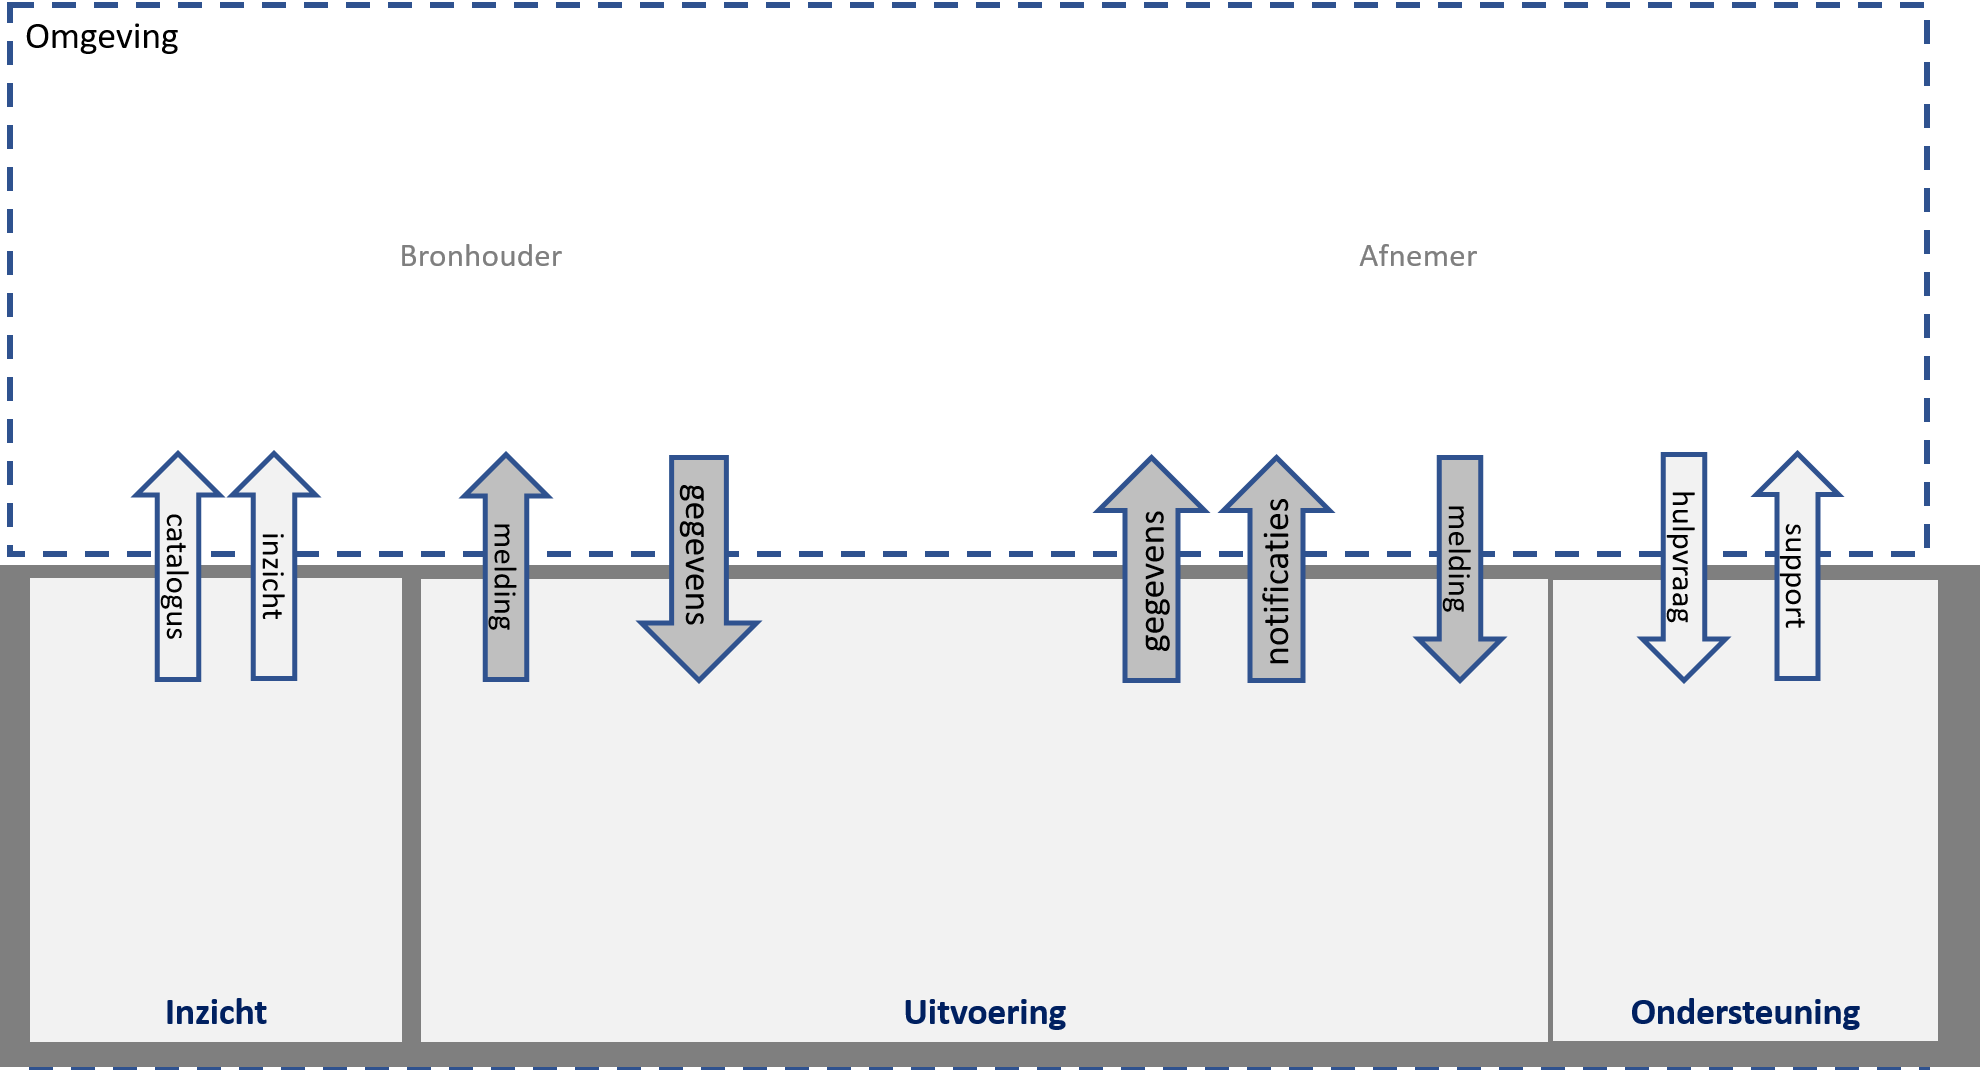
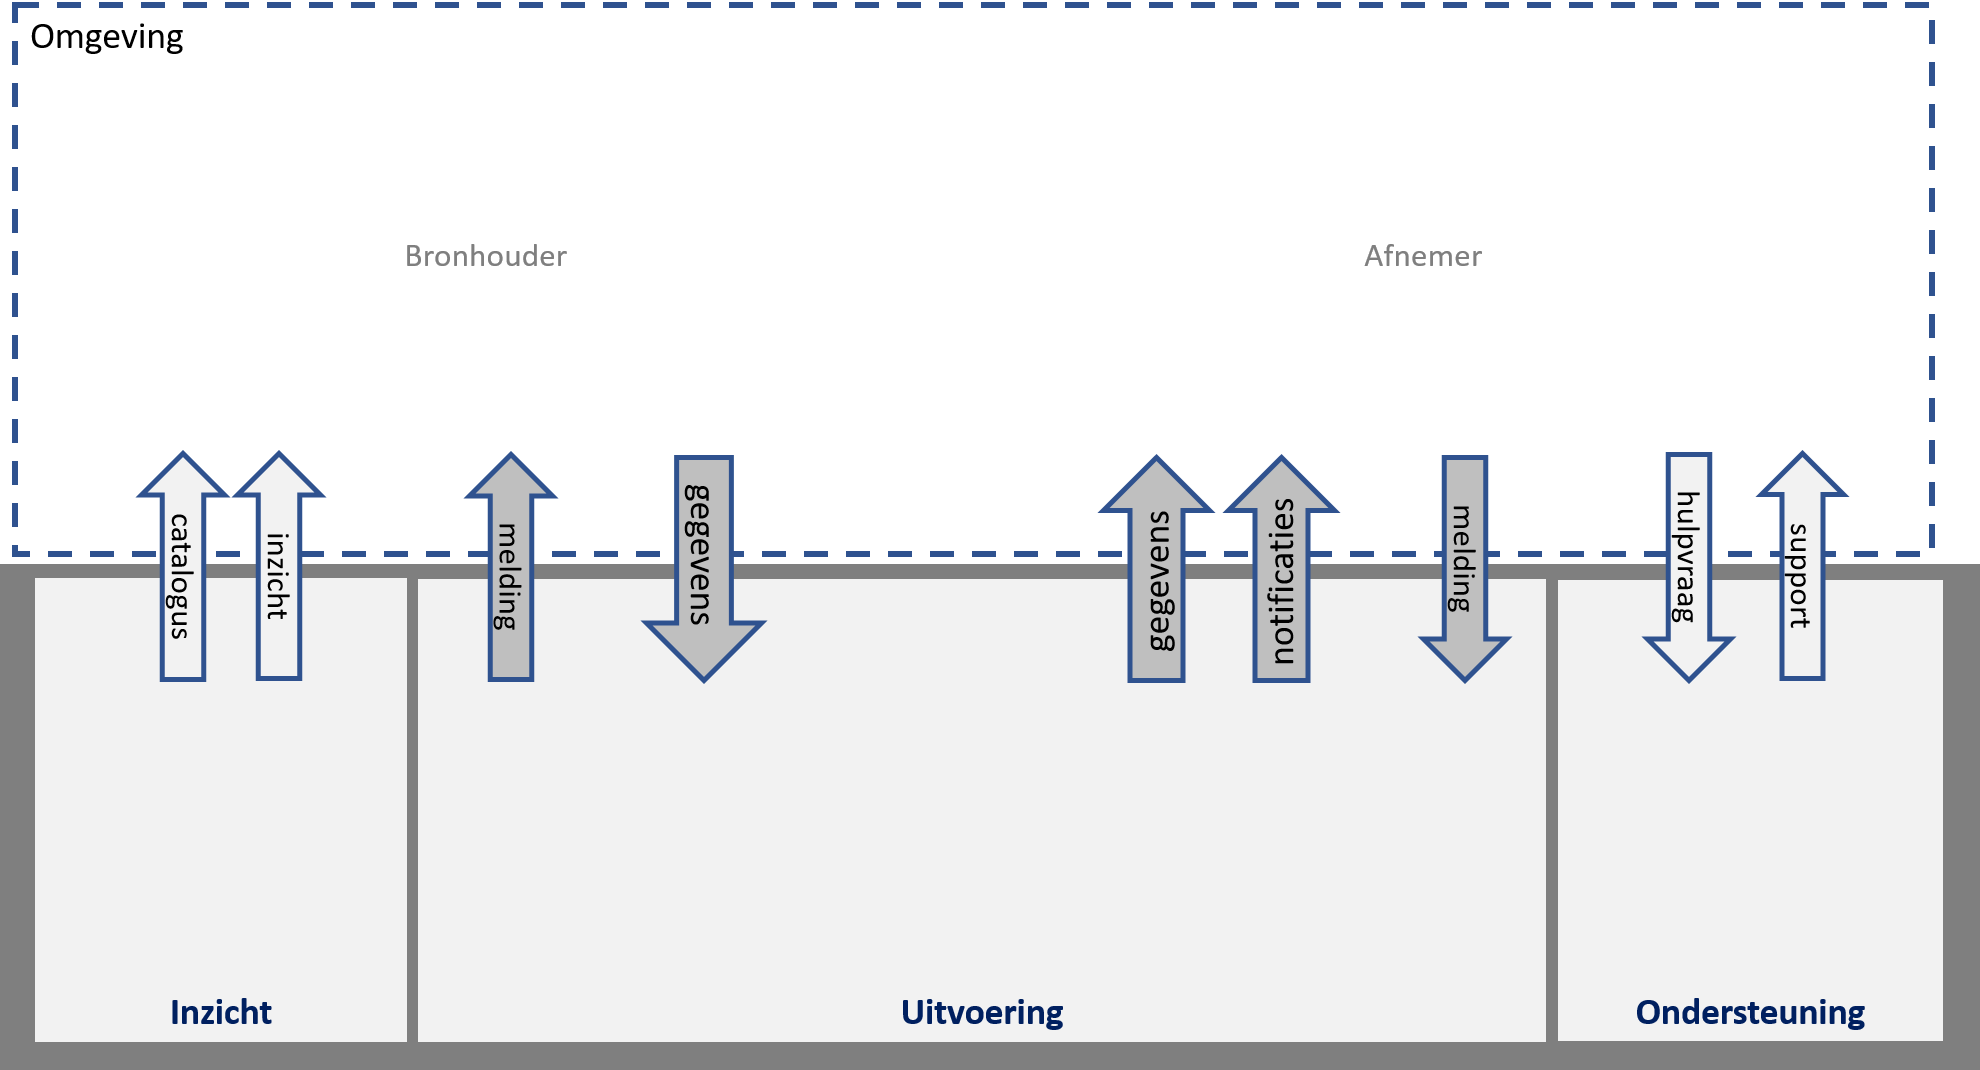
verwerking review

diff --git a/Bijlagen.md b/Bijlagen.md
@@ -63,10 +63,11 @@ Bron: https://www.noraonline.nl/images/noraonline/c/c0/Stelselarchitectuur_heden
 |-----------------------------|---------------------------------------|------------------------------------------------------------------------------------|------------------------|
 | Afgeleide gegevens          | 		                              | gegevens ontstaan uit filteren, selecteren en combineren van gegevens	          |                        |
 | Afgeleide gegevens service  | Convenience of process API            | Een technische dienst waarmee operaties op afgeleide gegevens mogelijk zijn, zoals lezen, toevoegen of aanpassen | |
-| Afgeleide Opslag            |                                       | Afgeleide opslag | |
+| Afgeleide Opslag            |                                       | Een replicatie van een deel van de opslag
+ | |
 | API 		               |                                       | Application Programming Interface, de technische invulling van een service         | [API Strategie](https://docs.geostandaarden.nl/api/API-Strategie/#wat-is-een-api) | 
 | Attributen	               |  Gegevens		                    | | | 
-| Audit-trail 	               |                                       | Vastgelegde gegevens waaruit is vast te stellen wie wanneer een bewerking van een gegeven heeft doorgevoer | |	
+| Audit-trail 	               |                                       | Vastgelegde gegevens waaruit is vast te stellen wie wanneer een bewerking van een gegeven heeft doorgevoerd | |	
 | Authenticatie                | 		                              | Ben je wie je zegt dat je bent                                                     | [NORA](https://www.noraonline.nl/wiki/Authenticatie(middelen)beheer) | 
 | Autorisatie                 | 		                              | Wat mag je                                                                         | [NORA](https://www.noraonline.nl/wiki/Bevoegdhedenbeheer) | 
 | Begrip                      |                                       |  door mensen begrepen woord of term in vocabulaire dat in meerdere informatiemodellen gebruikt kan worden, zie MIM | [MIM](https://docs.geostandaarden.nl/mim/def-st-mim-20201023/#metagegeven-begrip) | 
@@ -79,17 +80,14 @@ Bron: https://www.noraonline.nl/images/noraonline/c/c0/Stelselarchitectuur_heden
 | Dienst                      |                                       | Levering van prestaties door dienstverlener aan afnemer op basis van vraag en behoefte | | 
 | Fysiek model                |  Informatiemodel level-4	          | | |
 | Gegevens	               | Data                                  | Vastgelegde eigenschappen van een object | | 
-| Gegevens service            | 		                              | Een service die gegevens levert | | 
+| Gegevens service            | Data service 		                              |  | | 
 | Gemaksservice               | Convenience API                       | API die een generieke gebruikersvraag beantwoordt | |
-| Gesynchroniseerde Dataset	| 	                                   | Tweerichtingsverkeer aanpassing van bron + kopie gegevens	| | 
+| Geo gegevens               | Geografische gegevens                       | Gegevens met locatie en geometrie | |
 | Identificatie	          | 	                                   | Wie ben je                                                                         | [API Strategie](https://docs.geostandaarden.nl/api/API-Strategie-ext/#identification) | 
-| Informatie	               | 	                                   | Bewerkte gegevens, waarbij bewerken o.a. (dus niet uitputtende lijst) kan zijn: berekenen, aggregeren, combineren, filteren, presenteren.| | 	
-| Informatie service          | 		                              | Een service die informatie levert| | 
 | Informatiemodel level-1	| Begrippenlijst		               |  zie MIM | [MIM](https://docs.geostandaarden.nl/mim/def-st-mim-20201023/#niveau-1-model-van-begrippen) | 
 | Informatiemodel level-2	| Conceptueel Informatiemodel           | zie MIM | [MIM](https://docs.geostandaarden.nl/mim/def-st-mim-20201023/#niveau-2-conceptueel-informatiemodel )| 
 | Informatiemodel level-3	| Logisch- of Gegevensmodel 	          |  zie MIM | [MIM](https://docs.geostandaarden.nl/mim/def-st-mim-20201023/#niveau-3-logisch-informatie-of-gegevensmodel) | 
 | Informatiemodel level-4     | Fysiek -of Technisch gegevensmodel    |  zie MIM | [MIM](https://docs.geostandaarden.nl/mim/def-st-mim-20201023/#niveau-4-fysiek-of-technisch-gegevens-of-datamodel) | 
-| Inwinnen     	          | 	                                   | Het in de werkelijke fysieke wereld inwinnen van gegevens van een fysiek object	| | 
 | Logging	                    | 	                                   | Het bijhouden van metadata over de wijziging, wanneer en door welke organisatie/bronhouder	| | 
 | Logisch gegevensmodel       |  Informatiemodel level-3	          | | |
 | Logisch Informatiemodel     |  Informatiemodel level-3	          | | |
@@ -98,7 +96,6 @@ Bron: https://www.noraonline.nl/images/noraonline/c/c0/Stelselarchitectuur_heden
 | Objecten in de objectenregistratie | 	                              | Objecten die in het terrein zichtbaar zijn, zoals gebouwen, wegen, water, spoorlijnen en bomen, terreindelen, aangevuld met enkele (registratieve) objecten als woonplaatsen, gemeentegrenzen en openbare ruimten | | 
 | Objectgegevens              |                                       | Vastgelegde eigenschappen van een object | | 
 | Processervice               | process API, orchestration API        | API die meerdere system API's ofwel dataservices aanroept | |
-| Registreren                 |                                       | Het toevoegen en/of aanpassen van gegevens | | 
 | Replicatie                  |                                       | Een kopie van gegevens (maken) die gelijk is aan het origineel | | 
 | Service 		          |                                       | Technische functie die leveringen van diensten mogelijk maakt	| | 
 | Technisch gegevens model	| Informatiemodel level-4	          | | |

diff --git a/Uitwerking.md b/Uitwerking.md
@@ -19,16 +19,16 @@ Onder [Algemeen](#algemeen) beschrijven we de onderwerpen die op meerdere plaats
 in de architectuur voorkomen. Deze onderwerpen zijn daar eenmalig
 uitgewerkt.
 
-### Laag Uitvoering
+### Cluster Uitvoering
 
-Onderstaande afbeelding toont de clusters van functionaliteiten op de laag Uitvoering. Deze clustering is een functionele indeling, geen technische. Het groepeert functies die bijdragen aan hetzelfde doel.
+Onderstaande afbeelding toont de groepen van functionaliteiten op het cluster Uitvoering. Deze groepering is een functionele, geen technische. Hij groepeert functies die bijdragen aan hetzelfde doel.
 
 <figure id="functiesuitvoering">
     <img src="media/inrichting-uitvoering-objectenregistratie.png" alt="inrichting uitvoering">
-    <figcaption>De capabilities op de laag Uitvoering</figcaption>
+    <figcaption>De functies binnen het cluster Uitvoering</figcaption>
 </figure>
 
-De laag **Uitvoering** bevat de functies voor het beheren van objectgegevens en voor het afnemen van objectgegevens
+Het cluster **Uitvoering** bevat de functies voor het beheren van objectgegevens en voor het afnemen van objectgegevens
 Algemene onderwerpen zoals Toegang en Interactie zijn uitgewerkt in het onderdeel Algemeen.
 
 #### Registratie
@@ -436,6 +436,8 @@ Voor de uitwerking van de component gelden de volgende uitgangspunten:
 
 -   Het in onderzoek zijn is een gegeven waarop notificatie mogelijk is.
 
+Terugmelding kent mogelijk een functie voor meegeven van tekst en bijlagen, waarin ook verbetersuggesties mogelijk zouden zijn. Dit wordt in deze architectuur niet nader bepaald.
+
 **Vereisten**
 
 Voor deze component gelden de volgende vereisten:
@@ -457,16 +459,16 @@ Deze component heeft de volgende externe afhankelijkheden:
     terugmeldvoorzieningen zoals Digimelding en ‘Verbeter de kaart’ en de
     bijbehorende standaarden.
 
-### Laag Inzicht
+### Cluster Inzicht
 
-Onderstaande afbeelding toont de clusters van functionaliteiten op de laag Inzicht. Deze clustering is een functionele indeling, geen technische. Het groepeert functies die bijdragen aan hetzelfde doel.
+Onderstaande afbeelding toont de groepen functionaliteiten op het cluster Inzicht. Deze groepering is een functionele, geen technische. Hij groepeert functies die bijdragen aan hetzelfde doel.
 
 <figure id="inrichting-inzicht">
     <img src="media/inrichting-inzicht-objectenregistratie.png" alt="inrichting inzicht">
-    <figcaption>De capabilities op de laag Inzicht </figcaption>
+    <figcaption>De functies binnen het cluster Inzicht </figcaption>
 </figure>
   
-Op de laag **Inzicht** onderkennen we de volgende clusters: **Toegang**, **Gegevenscatalogus**, **Gegevenskwaliteit** en **Dienstencatalogus**. 
+Binnen het cluster **Inzicht** onderkennen we de volgende groepen functionaliteiten: **Toegang**, **Gegevenscatalogus**, **Gegevenskwaliteit** en **Dienstencatalogus**. 
 
 Algemene onderwerpen zoals Toegang en Interactie zijn uitgewerkt in het onderdeel Algemeen.
 
@@ -707,16 +709,16 @@ Deze component heeft de volgende externe afhankelijkheden:
     overheid.nl domein voor dienstaanbieders
 
 
-### Laag Ondersteuning
+### Cluster Ondersteuning
 
-Onderstaande afbeelding toont de clusters van functionaliteiten op de laag Ondersteuning. Deze clustering is een functionele indeling, geen technische. Het groepeert functies die bijdragen aan hetzelfde doel.
+Onderstaande afbeelding toont de groepen van functionaliteiten op het cluster Ondersteuning. Deze groepering is een functionele, geen technische. Hij groepeert functies die bijdragen aan hetzelfde doel.
 
 <figure id="functiesuitvoeringondersteuning">
     <img src="media/inrichting-ondersteuning-objectenregistratie.png" alt="inrichting ondersteuning">
-    <figcaption>De capabilities op de laag Ondersteuning</figcaption>
+    <figcaption>De functies binnen het cluster Ondersteuning</figcaption>
 </figure>
 
-Op de **Ondersteuningslaag** onderkennen we de clusters voor de ondersteuning van bronhouders en hun gemachtigden en afnemers.
+Binnen het cluster **Ondersteuning** onderkennen we de functies voor de ondersteuning van bronhouders en hun gemachtigden en afnemers.
 Algemene onderwerpen zoals Toegang en Interactie zijn uitgewerkt in het onderdeel Algemeen.
 
 #### Abonnementen
@@ -792,6 +794,10 @@ Het afnemen van een abonnement is randvoorwaardelijk, ook bij gratis en open ser
 Dit geeft enerzijds het nadeel van meer administratieve last maar anderzijds het grotere en belangrijkere voordeel dat gebruikers van de service gericht op de hoogte gebracht kunnen worden van veranderingen aan de service.
 
 Opmerking: het gaat hier om een abonnement voor het gebruiken van een afname service door een informatiesysteem. Het is mogelijk en denkbaar dat een dienstenaanbieder met zo'n informatiesysteem afnamediensten zonder abonnement aanbiedt aan derden.
+
+In technische zin betekent het afnemen van een abonnement een registratie voor het aansluiten en het daarmee verkrijgen van een API-key. Dit is noodzakelijk om te weten hoe de populatie van aanbieders en afnemers eruit ziet, maar ook hoe zij zich individueel gedragen. Het verplichten van een API-key (en dus het registreren) is een minimale drempel, maar essentieel voor zowel API- als verkeersmanagement (SLA's, quota, throttling, etc.).
+
+Opmerking: Het Knooppunt van DSO-LV, dat bestaat uit een deel "gegevensuitwisseling" en "toegang" kan als voorbeeld dienen.
 
 **Invulling**
 
